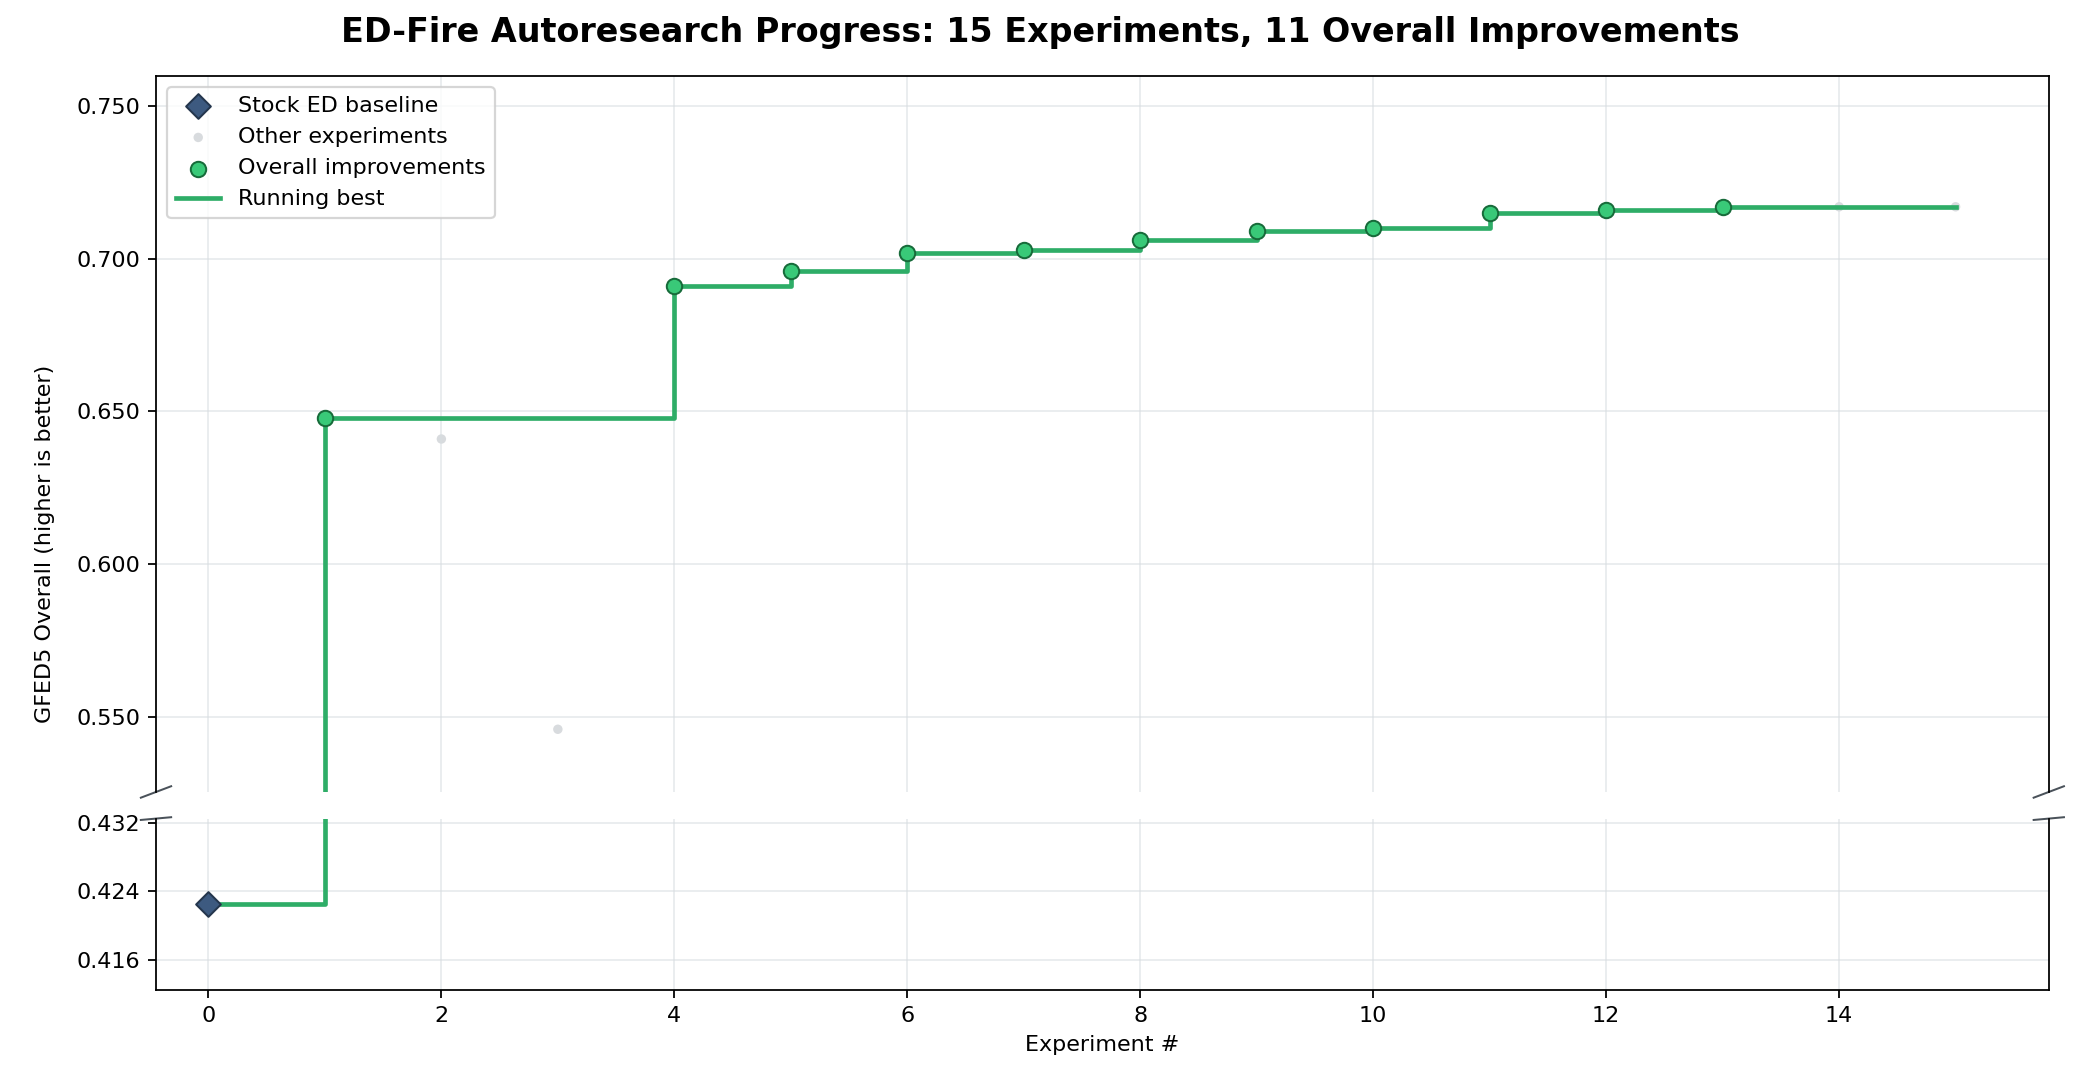
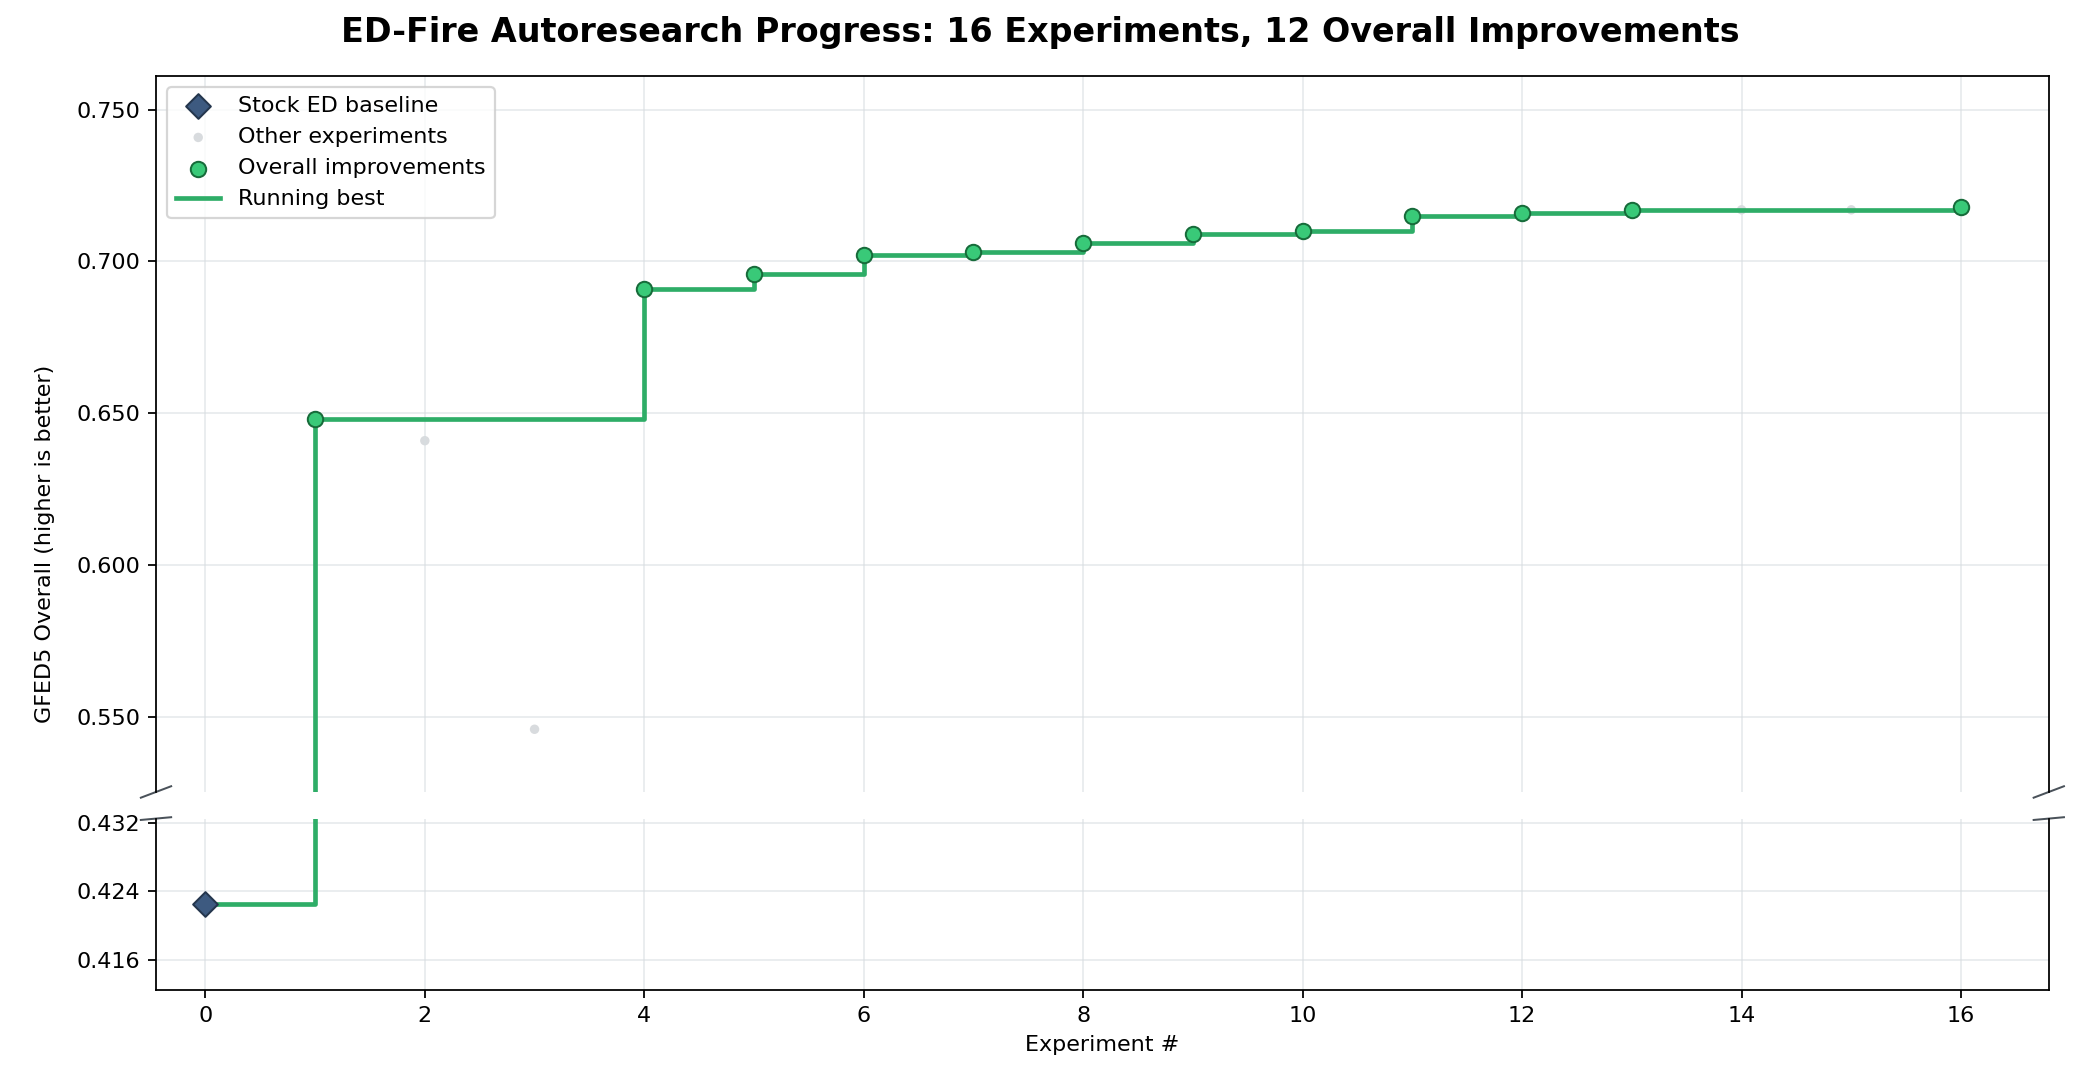
Record rare natural onset official score

diff --git a/autoresearch/scratchpad/thread.md b/autoresearch/scratchpad/thread.md
@@ -4702,3 +4702,19 @@ low-fuel 1.311 times observed. The equation uses one global .003 source scale an
 `[A/(A+250)]^2 exp(-A/3000)` fuel establishment for `A = 12 EMA12(rain)`. The step is
 small but physically distinct and safe enough for canonical installation; it does not
 justify Optuna.
+
+
+### Entry 140: rare natural onset advances the official best to .718
+
+The primary-only rare-onset equation was installed inside the existing rare-ignition
+component at `3efb3bf`. It adds hazard only when rapid warming, drying onset, lightning
+arrival, squared causal rain-built fuel, LUH2 primary share, and low trailing incumbent
+fire coincide. The exact proxy reproduces .717564, and official evaluation records
+**.718** (bias .755, RMSE .546, seasonal .861, spatial .879).
+
+Seven of fourteen exact regional scores improve, prefix causality is bit-exact, and the
+ecological ratios remain within the audited bounds. The unused LUH2 secondary aggregate
+was removed from canonical `INPUTS` in the preceding commit because this mechanism does
+not need it and it must not be treated as an exclusive natural-cover fraction. No ML or
+GAM surface, regional coefficient, neighbour, invalid climate forcing, or future state
+enters the prediction path.
